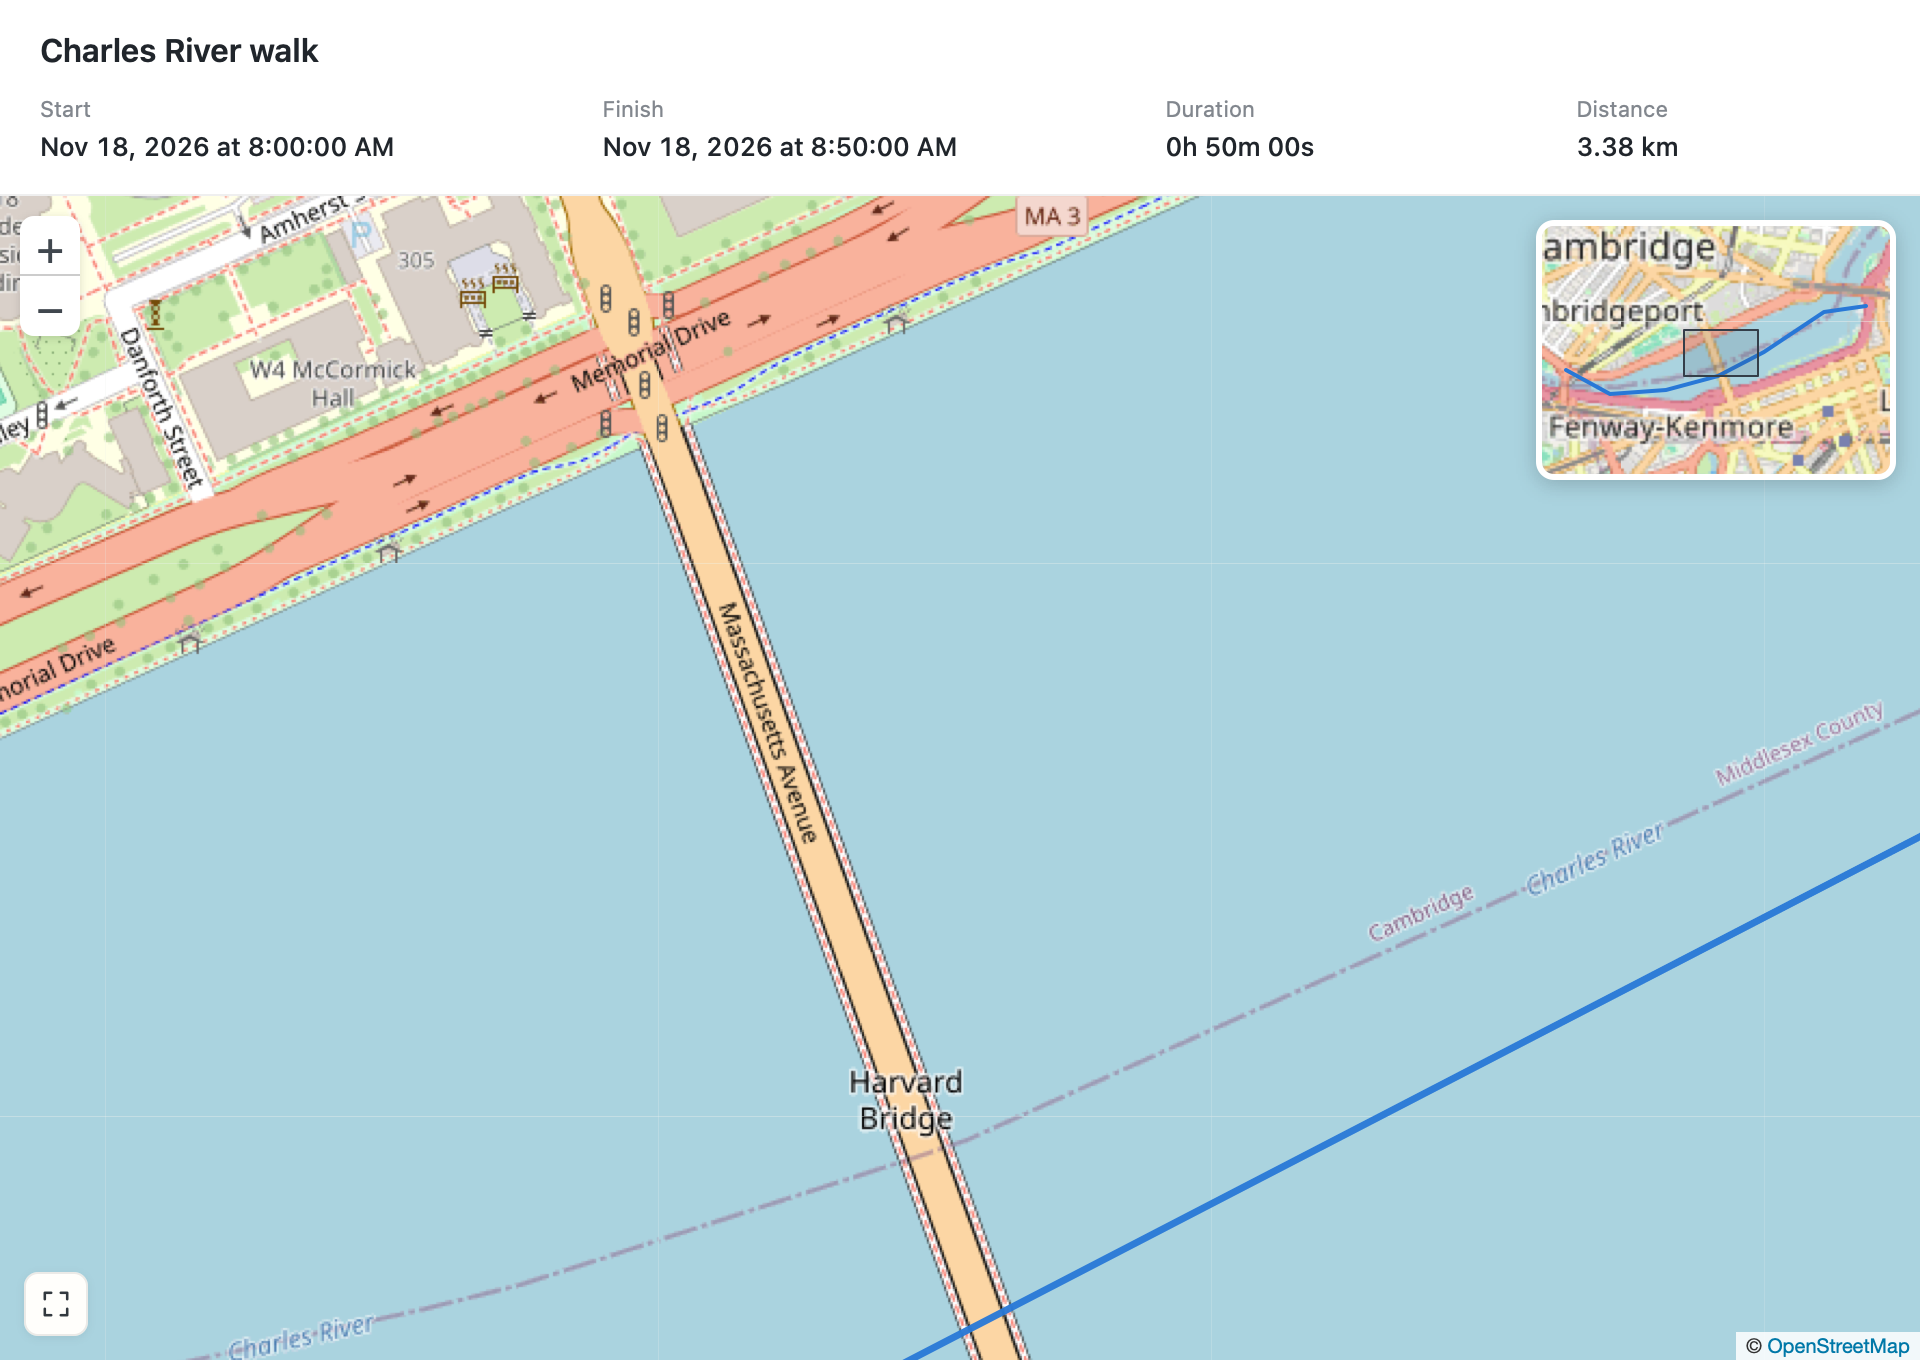
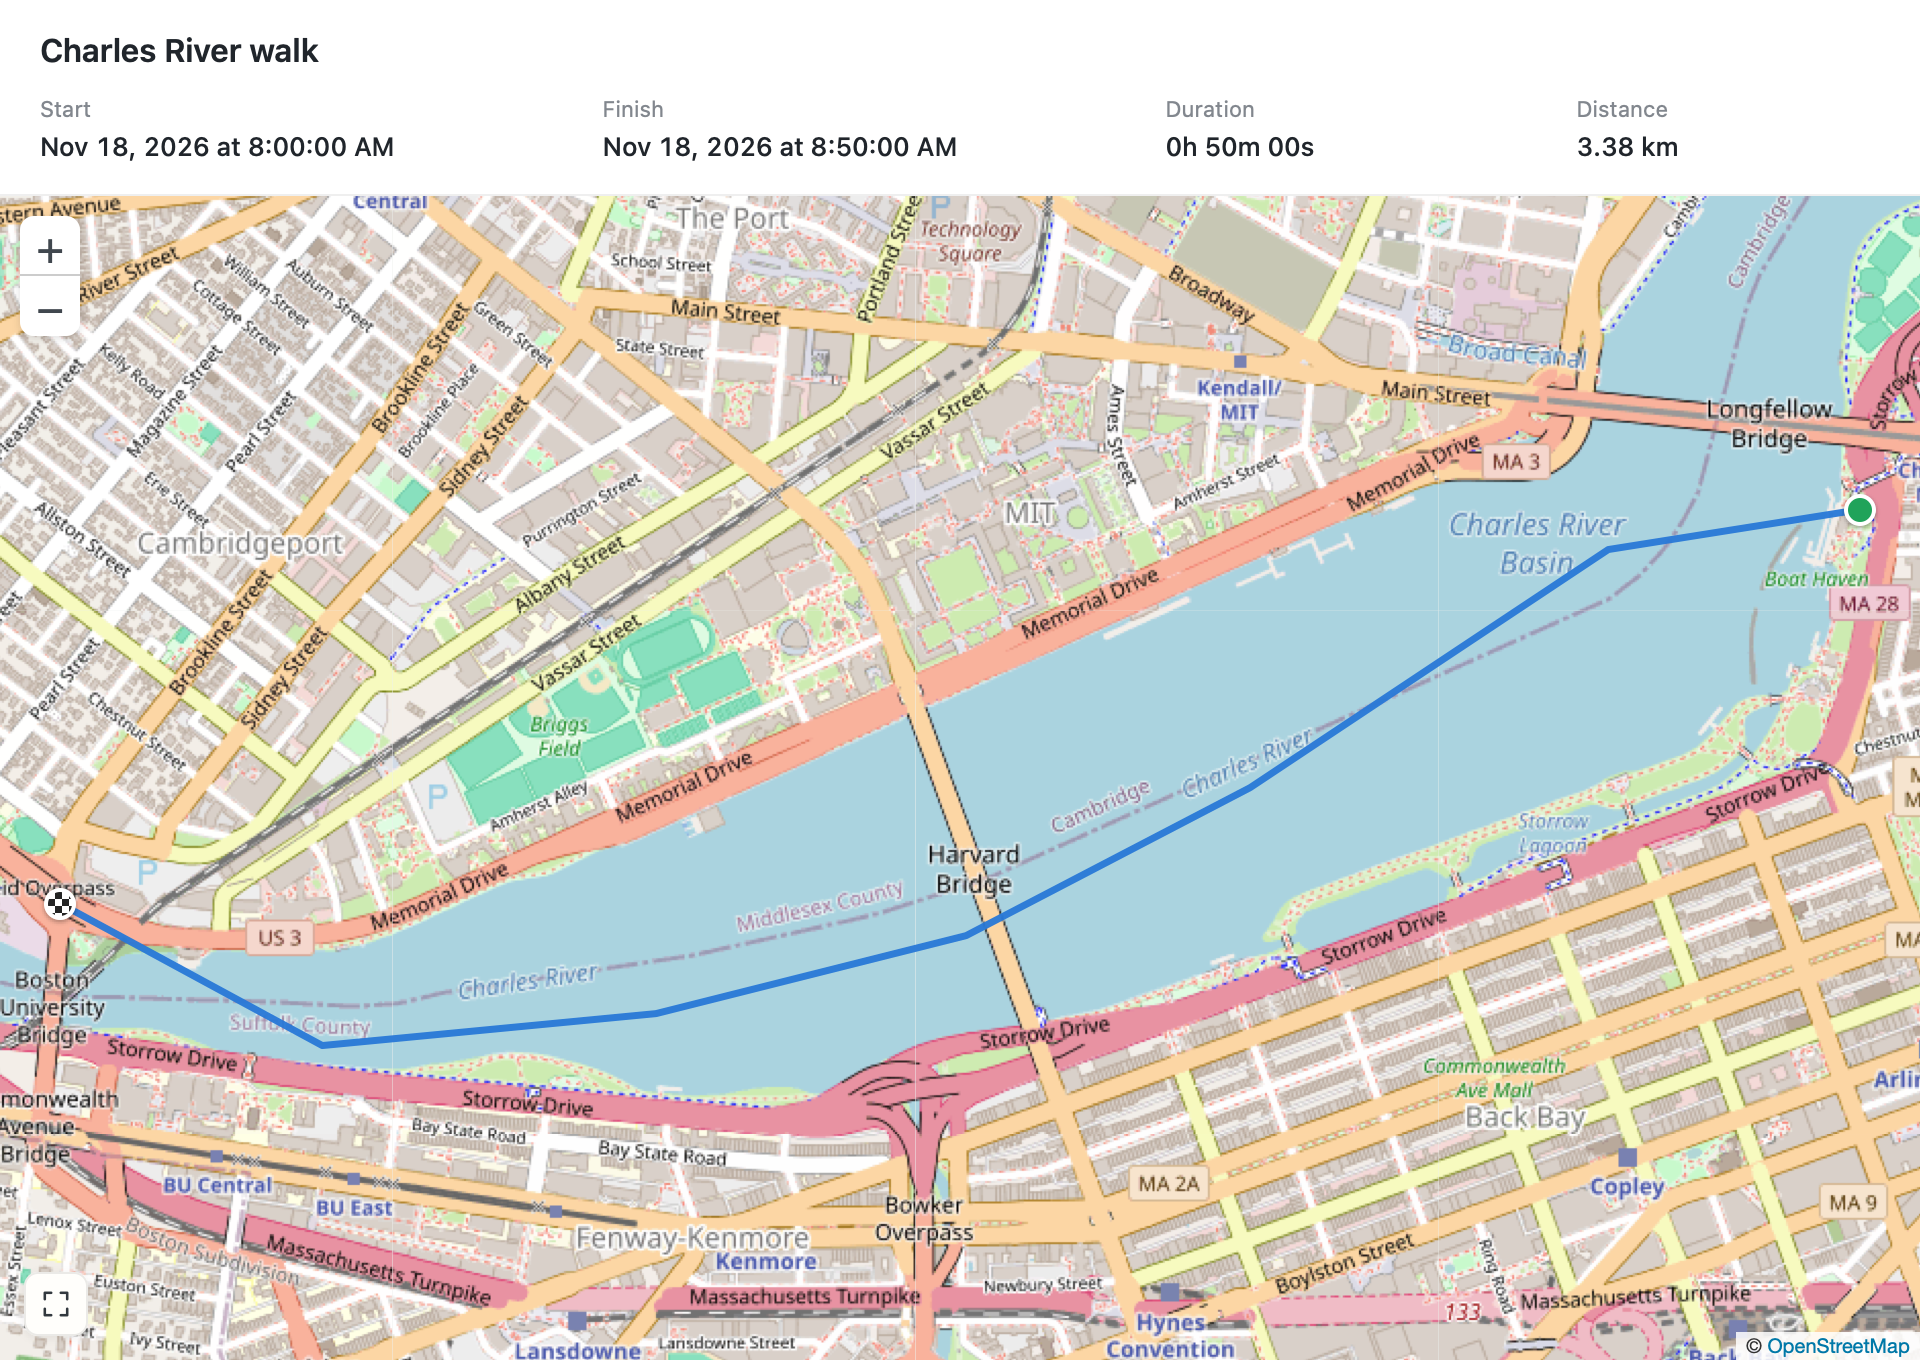
Retain map tiles during zoom and make minimap visibility immediate

diff --git a/Resources/map.html b/Resources/map.html
@@ -3,9 +3,28 @@
 </style></head><body><header><h1 id="name"></h1><div class="stats"><div class="stat"><span>Start</span><strong id="start"></strong></div><div class="stat"><span>Finish</span><strong id="finish"></strong></div><div class="stat"><span>Duration</span><strong id="duration"></strong></div><div class="stat"><span>Distance</span><strong id="distance"></strong></div></div></header><div id="mapWrap"><div id="map"></div><button id="fit" title="Zoom to fit" aria-label="Zoom to fit"><svg viewBox="0 0 20 20"><path d="M7 3H3v4m10-4h4v4M3 13v4h4m10-4v4h-4"/></svg></button><div id="minimapPanel" hidden><div id="minimap" aria-label="Track overview"></div><button id="collapse" title="Collapse minimap" aria-label="Collapse minimap" aria-expanded="true"><svg viewBox="0 0 20 20"><path d="m6 13 7-7M6 6h7v7"/></svg></button></div><div id="status" hidden><span>Some map tiles couldn’t load.</span><button id="retry">Retry</button></div></div><script src="leaflet.js"></script><script>
 const data=JSON.parse(new TextDecoder().decode(Uint8Array.from(atob('__TRACK_BASE64__'),c=>c.charCodeAt(0))));
 for(const key of ['name','start','finish','duration','distance'])document.getElementById(key).textContent=data[key];
-const map=L.map('map',{zoomControl:true,scrollWheelZoom:false,zoomAnimation:true,zoomSnap:0,zoomDelta:.5});map.attributionControl.setPrefix(false);
+const map=L.map('map',{zoomControl:true,scrollWheelZoom:false,zoomAnimation:true,fadeAnimation:false,zoomSnap:0,zoomDelta:.5,maxZoom:24});map.attributionControl.setPrefix(false);
 const tileURL='gpx-tile://osm/{z}/{x}/{y}.png';
-const tiles=L.tileLayer(tileURL,{maxZoom:19,attribution:'© <a href="https://www.openstreetmap.org/copyright">OpenStreetMap</a>'}).addTo(map);
+// Leaflet's hard reset discards every image on each fractional zoom frame.
+// Retain loaded levels and decoded images so zooming and returning to fit never start blank.
+const RetainedTiles=L.TileLayer.extend({
+ initialize:function(url,options){L.TileLayer.prototype.initialize.call(this,url,options);this.decoded=new Map();},
+ getEvents:function(){const events=L.TileLayer.prototype.getEvents.call(this);delete events.viewprereset;return events;},
+ createTile:function(coords,done){
+  const key=this._tileCoordsToKey(coords),cached=this.decoded.get(key);
+  if(cached){this.decoded.delete(key);cached.className='';cached.style.cssText='';delete cached.dataset.failed;setTimeout(()=>done(null,cached),0);return cached;}
+  return L.TileLayer.prototype.createTile.call(this,coords,done);
+ },
+ _removeTile:function(key){
+  const record=this._tiles[key];
+  if(record&&record.el.complete&&record.el.naturalWidth&&!record.el.dataset.failed){
+   L.DomEvent.off(record.el);this.decoded.set(key,record.el);
+   while(this.decoded.size>128)this.decoded.delete(this.decoded.keys().next().value);
+   L.GridLayer.prototype._removeTile.call(this,key);
+  }else L.TileLayer.prototype._removeTile.call(this,key);
+ }
+});
+const tiles=new RetainedTiles(tileURL,{maxZoom:24,maxNativeZoom:19,updateWhenZooming:false,attribution:'© <a href="https://www.openstreetmap.org/copyright">OpenStreetMap</a>'}).addTo(map);
 // Judge current visible tiles, never latch an error from a cancelled or past request.
 let statusTimer;
 function updateTileStatus(){clearTimeout(statusTimer);statusTimer=setTimeout(()=>{const current=Object.values(tiles._tiles).filter(t=>t.current);const failed=current.some(t=>t.el.dataset.failed==='true');document.getElementById('status').hidden=!failed;},500);}
@@ -23,19 +42,24 @@ let fitZoom=0,mini=null,miniTiles=null,viewport=null,fitting=false;
 let minimapEnabled=window.gpxMinimapEnabled!==false;
 const panel=document.getElementById('minimapPanel');
 const collapse=document.getElementById('collapse');
-function updateMinimap(){
+function updateMinimap(event){
  if(fitting)return;
- const visible=map.getZoom()>fitZoom+.01||!map.getBounds().contains(line.getBounds());
+ let visibleBounds=map.getBounds();
+ if(event&&event.type==='zoomanim'){
+  const center=map.project(event.center,event.zoom),half=map.getSize().divideBy(2);
+  visibleBounds=L.latLngBounds(map.unproject(center.subtract(half),event.zoom),map.unproject(center.add(half),event.zoom));
+ }
+ const visible=!visibleBounds.contains(line.getBounds());
  panel.hidden=!visible;if(!visible)return;
  panel.classList.toggle('collapsed',!minimapEnabled);
  document.getElementById('minimap').hidden=!minimapEnabled;
  collapse.setAttribute('aria-expanded',String(minimapEnabled));
  collapse.title=collapse.ariaLabel=minimapEnabled?'Collapse minimap':'Expand minimap';
  if(!minimapEnabled)return;
- if(!mini){mini=L.map('minimap',{zoomControl:false,attributionControl:false,dragging:false,scrollWheelZoom:false,doubleClickZoom:false,boxZoom:false,touchZoom:false,keyboard:false,zoomAnimation:false,zoomSnap:0});miniTiles=L.tileLayer(tileURL,{maxZoom:19}).addTo(mini);L.polyline(segments,{color:'#2878d7',weight:2,interactive:false}).addTo(mini);viewport=L.rectangle(map.getBounds(),{color:'#343e49',weight:1,fillColor:'#343e49',fillOpacity:.12,interactive:false}).addTo(mini);mini.on('click',e=>map.panTo(e.latlng));}
+ if(!mini){mini=L.map('minimap',{zoomControl:false,attributionControl:false,dragging:false,scrollWheelZoom:false,doubleClickZoom:false,boxZoom:false,touchZoom:false,keyboard:false,zoomAnimation:false,zoomSnap:0});miniTiles=new RetainedTiles(tileURL,{maxZoom:24,maxNativeZoom:19}).addTo(mini);L.polyline(segments,{color:'#2878d7',weight:2,interactive:false}).addTo(mini);viewport=L.rectangle(map.getBounds(),{color:'#343e49',weight:1,fillColor:'#343e49',fillOpacity:.12,interactive:false}).addTo(mini);mini.on('click',e=>map.panTo(e.latlng));}
  const size=mini.getSize(),element=document.getElementById('minimap');
  if(size.x!==element.clientWidth||size.y!==element.clientHeight||!mini._loaded){mini.invalidateSize({pan:false});mini.fitBounds(line.getBounds(),{padding:[12,12],maxZoom:18,animate:false});}
- viewport.setBounds(map.getBounds());
+ viewport.setBounds(visibleBounds);
 }
 collapse.onclick=e=>{e.stopPropagation();minimapEnabled=!minimapEnabled;window.webkit?.messageHandlers?.minimapPreference?.postMessage(minimapEnabled);updateMinimap();};
 let zoomFrame=0,targetZoom=null,zoomAnchor=null,lastFrame=0;
@@ -52,19 +76,20 @@ map.getContainer().addEventListener('wheel',e=>{
  e.preventDefault();map.stop();
  zoomAnchor=map.mouseEventToContainerPoint(e);
  const delta=e.deltaY*(e.deltaMode===1?16:e.deltaMode===2?map.getSize().y:1);
- targetZoom=Math.max(map.getMinZoom(),Math.min(19,(targetZoom??map.getZoom())-delta/(e.ctrlKey?90:240)));
+ targetZoom=Math.max(map.getMinZoom(),Math.min(24,(targetZoom??map.getZoom())-delta/(e.ctrlKey?90:240)));
  if(!zoomFrame)zoomFrame=requestAnimationFrame(smoothZoom);
 },{passive:false});
 map.getContainer().addEventListener('mousedown',stopSmoothZoom);
 function fit(){
  stopSmoothZoom();map.stop();fitting=true;map.invalidateSize();
  const size=map.getSize();
- // A 10% buffer on each side of the projected track, with room for endpoint markers.
- map.fitBounds(line.getBounds(),{padding:[Math.max(22,size.x/12),Math.max(22,size.y/12)],maxZoom:18,animate:false});
+ // A 3⅓% buffer per side, with a minimum margin for endpoint markers.
+ map.fitBounds(line.getBounds(),{padding:[Math.max(12,size.x/32),Math.max(12,size.y/32)],maxZoom:18,animate:false});
  fitZoom=map.getZoom();fitting=false;updateMinimap();
 }
 document.getElementById('fit').onclick=fit;
-map.on('moveend zoomend',()=>{updateMinimap();updateTileStatus();});
+map.on('move zoom zoomanim',updateMinimap);
+map.on('moveend zoomend',updateTileStatus);
 let resizeTimer;new ResizeObserver(()=>{clearTimeout(resizeTimer);resizeTimer=setTimeout(()=>{const wasFitted=Math.abs(map.getZoom()-fitZoom)<.01&&map.getBounds().contains(line.getBounds());map.invalidateSize({pan:false});if(wasFitted)fit();else updateMinimap();},80);}).observe(document.getElementById('map'));
 fit();
 </script></body></html>

diff --git a/Tests/WebSmoke.swift b/Tests/WebSmoke.swift
@@ -32,9 +32,14 @@ import WebKit
                         const bounds=line.getBounds(),size=map.getSize();
                         const a=map.latLngToContainerPoint(bounds.getNorthWest()),b=map.latLngToContainerPoint(bounds.getSouthEast());
                         const fill=Math.max((b.x-a.x)/size.x,(b.y-a.y)/size.y);
-                        const framingWorks=fill>.82&&fill<.84&&a.x>=20&&a.y>=20&&b.x<=size.x-20&&b.y<=size.y-20;
+                        const framingWorks=fill>.93&&fill<.95&&a.x>=11&&a.y>=11&&b.x<=size.x-11&&b.y<=size.y-11;
 
-                        const before=map.getZoom();map.setZoom(before+2,{animate:false});
+                        const before=map.getZoom();
+                        map.setZoom(before+.03,{animate:false});
+                        const stillInsideHidden=panel.hidden&&map.getBounds().contains(line.getBounds());
+                        const originalTiles=Array.from(tiles.getContainer().querySelectorAll('img')).filter(img=>img.complete&&img.naturalWidth);
+                        map.setZoom(before+2,{animate:false});
+                        const retainedDuringZoom=originalTiles.some(img=>tiles.getContainer().contains(img));
                         const zoomWorks=map.getZoom()>before;
                         const minimapShown=!panel.hidden&&!document.getElementById('minimap').hidden;
                         collapse.click();const toggleOff=panel.classList.contains('collapsed')&&document.getElementById('minimap').hidden;
@@ -43,16 +48,25 @@ import WebKit
                         const panWorks=!center.equals(map.getCenter());
                         window.wheelBefore=map.getZoom();
                         map.getContainer().dispatchEvent(new WheelEvent('wheel',{deltaY:-60,clientX:400,clientY:300,bubbles:true,cancelable:true}));
-                        initiallyHidden && framingWorks && zoomWorks && panWorks && minimapShown && toggleOff && toggleOn
+                        initiallyHidden && framingWorks && stillInsideHidden && retainedDuringZoom && zoomWorks && panWorks && minimapShown && toggleOff && toggleOn
                         """) { result,error in
                         guard result as? Bool == true, error == nil else { print("Zoom failed",error as Any);exit(1) }
                         DispatchQueue.main.asyncAfter(deadline: .now() + 3) {
                         self.web.evaluateJavaScript("map.getZoom()>window.wheelBefore && Math.abs(map.getZoom()-Math.round(map.getZoom()))>.01") { result,error in
                         guard result as? Bool == true, error == nil else { print("Smooth wheel zoom failed",error as Any);exit(1) }
+                        self.web.evaluateJavaScript("""
+                            map.setZoom(24,{animate:false});
+                            const overzoom=map.getZoom()===24&&tiles._tileZoom===19;
+                            fit();const immediateFit=panel.hidden&&map.getBounds().contains(line.getBounds());
+                            window.returnedTiles=Array.from(tiles.getContainer().querySelectorAll('img')).filter(img=>img.complete&&img.naturalWidth);
+                            overzoom&&immediateFit&&returnedTiles.length>0
+                            """) { result,error in
+                        guard result as? Bool == true, error == nil else { print("Overzoom / instant fit failed",error as Any);exit(1) }
                         self.web.takeSnapshot(with:nil) { image,error in
                             if let image, let data=image.tiffRepresentation,let bitmap=NSBitmapImageRep(data:data),let png=bitmap.representation(using:.png,properties:[:]) { try! png.write(to:root.appendingPathComponent("Samples/Preview.png")) }
-                            print("Passed: native tile loading, markers, bounds, zoom, pan, fractional wheel zoom, padded frame fill, minimap collapse and expand; snapshot saved")
+                            print("Passed: native tile loading, markers, bounds, zoom, pan, fractional wheel zoom, retained tiles, 3.3% padding, trail-only minimap, level-24 overzoom, instant fit; snapshot saved")
                             timer.invalidate();NSApp.terminate(nil)
+                        }
                         }
                         }
                         }

diff --git a/README.md b/README.md
@@ -10,9 +10,9 @@ The app can also open GPX files directly with Command-O or Finder's Open With me
 
 - OpenStreetMap tiles with attribution; internet access is required for the basemap. The route and statistics work without tiles.
 - Small green start and checkered finish circles, including offset markers for loops.
-- A top-right overview appears when zoomed in; its viewport follows the main map. Click the overview to recenter. Hover over the minimap for its collapse icon; the collapsed icon expands it again. The collapsed state is remembered.
-- Drag to pan; scroll, double click, or use +/− to zoom. The lower-left fit icon restores the initial frame. Wheel and trackpad zoom use smooth fractional steps.
-- Initial framing fills the available map with a 10% buffer on each side of the projected track bounds, with a minimum margin for marker visibility. Fractional zoom avoids the excess space caused by rounding to whole zoom levels. Single-point tracks have a sensible maximum zoom. Dateline crossings are unwrapped.
+- A top-right overview appears immediately only when part of the track is outside the main viewport; its viewport follows the main map. Click the overview to recenter. Hover over the minimap for its collapse icon; the collapsed icon expands it again. The collapsed state is remembered.
+- Drag to pan; scroll, double click, or use +/− to zoom. The lower-left fit icon restores the initial frame. Wheel and trackpad zoom use smooth fractional steps. Loaded tile levels and up to 128 decoded tiles per map are retained for smooth transitions and quick return to fit. Zoom goes to level 24, enlarging native level-19 tiles at higher zooms.
+- Initial framing fills the available map with a 3⅓% buffer on each side of the projected track bounds, with a minimum margin for marker visibility. Fractional zoom avoids the excess space caused by rounding to whole zoom levels. Single-point tracks have a sensible maximum zoom. Dateline crossings are unwrapped.
 - Start and stop use the first and last point timestamps in the local time zone. Missing timestamps display “Unavailable.” Duration is elapsed time, including pauses.
 - Length uses great-circle distances, without connecting separate track segments. Routes are used when there are no tracks. Waypoint-only files show an explanation.
 - GPX stays local. Only visible basemap tile requests go to OpenStreetMap. Tile requests use native URLSession networking with HTTP caching and identify the app in its user agent. A transient failure does not leave a permanent warning; Retry reloads the tiles. No bulk download or offline prefetch.
